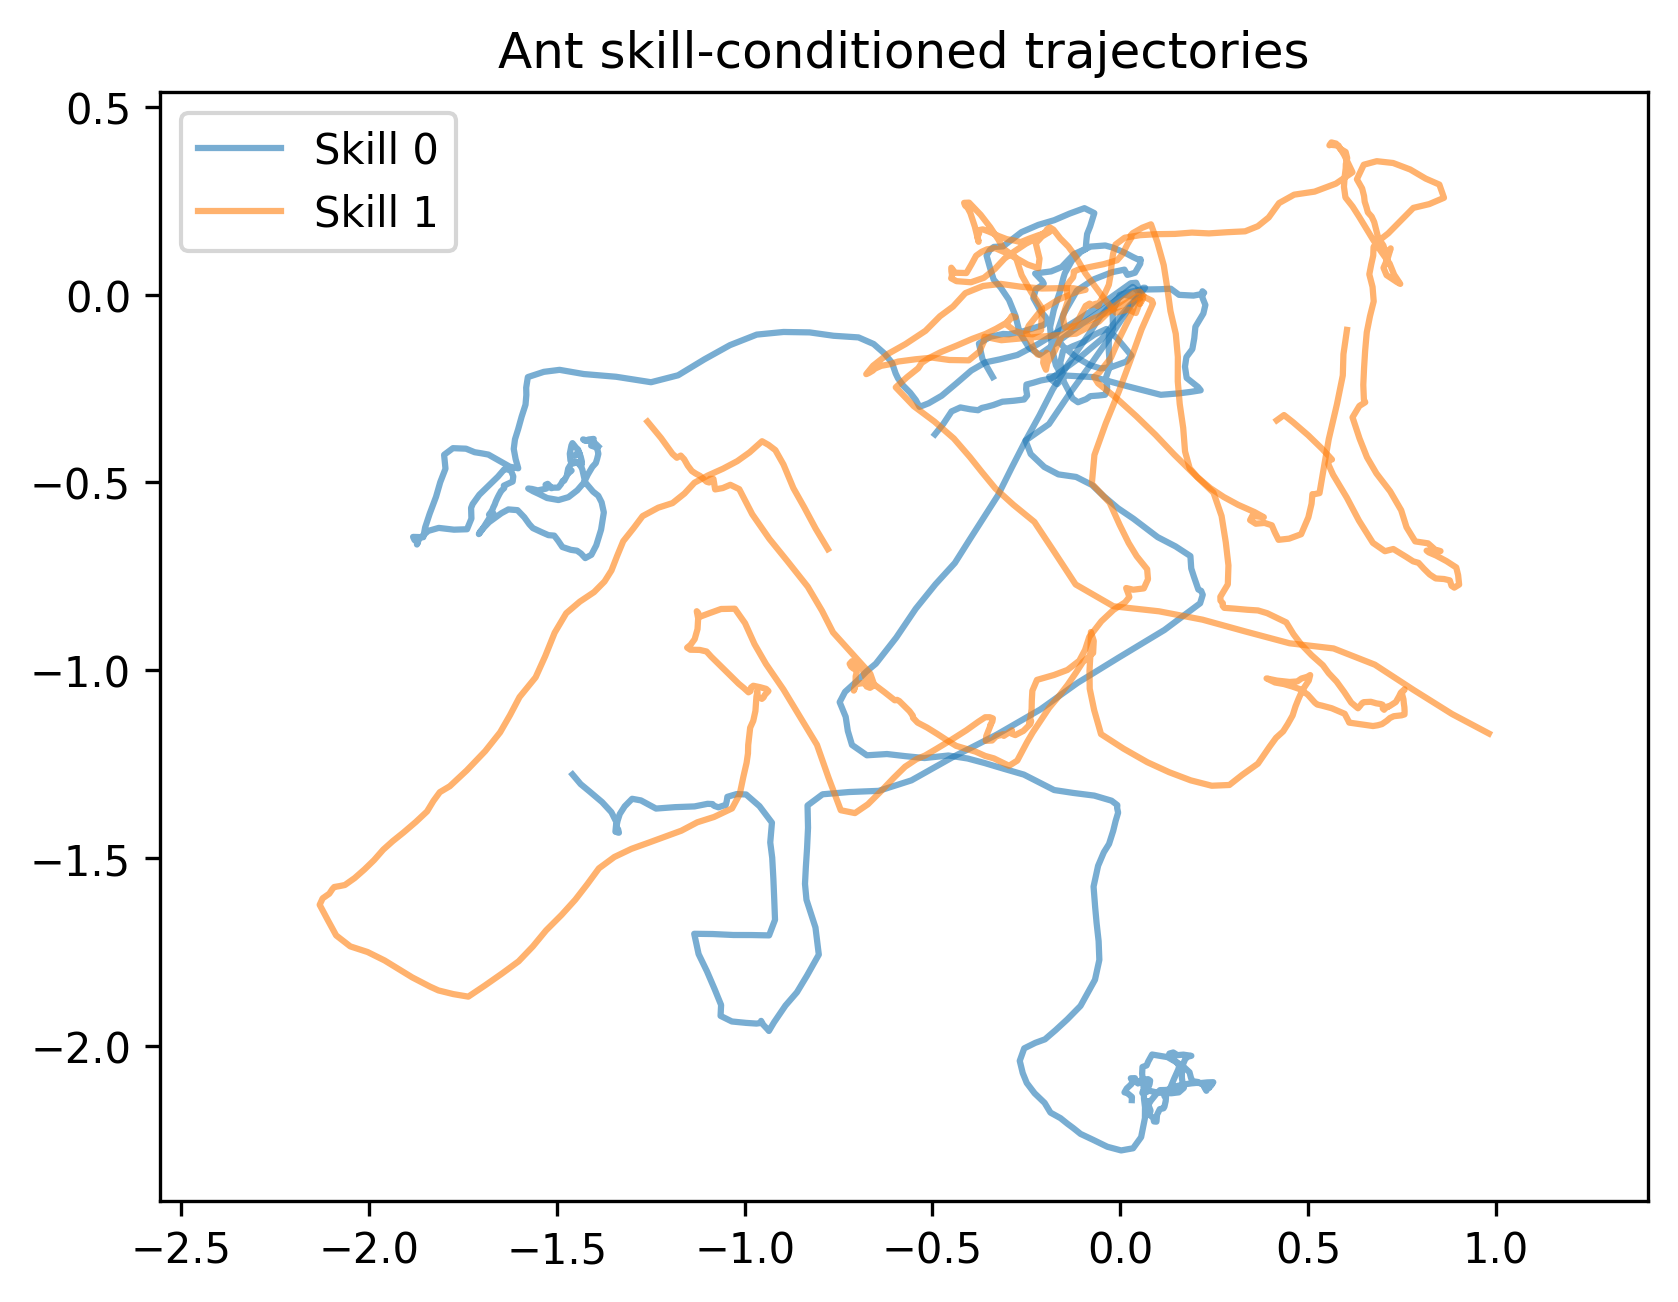
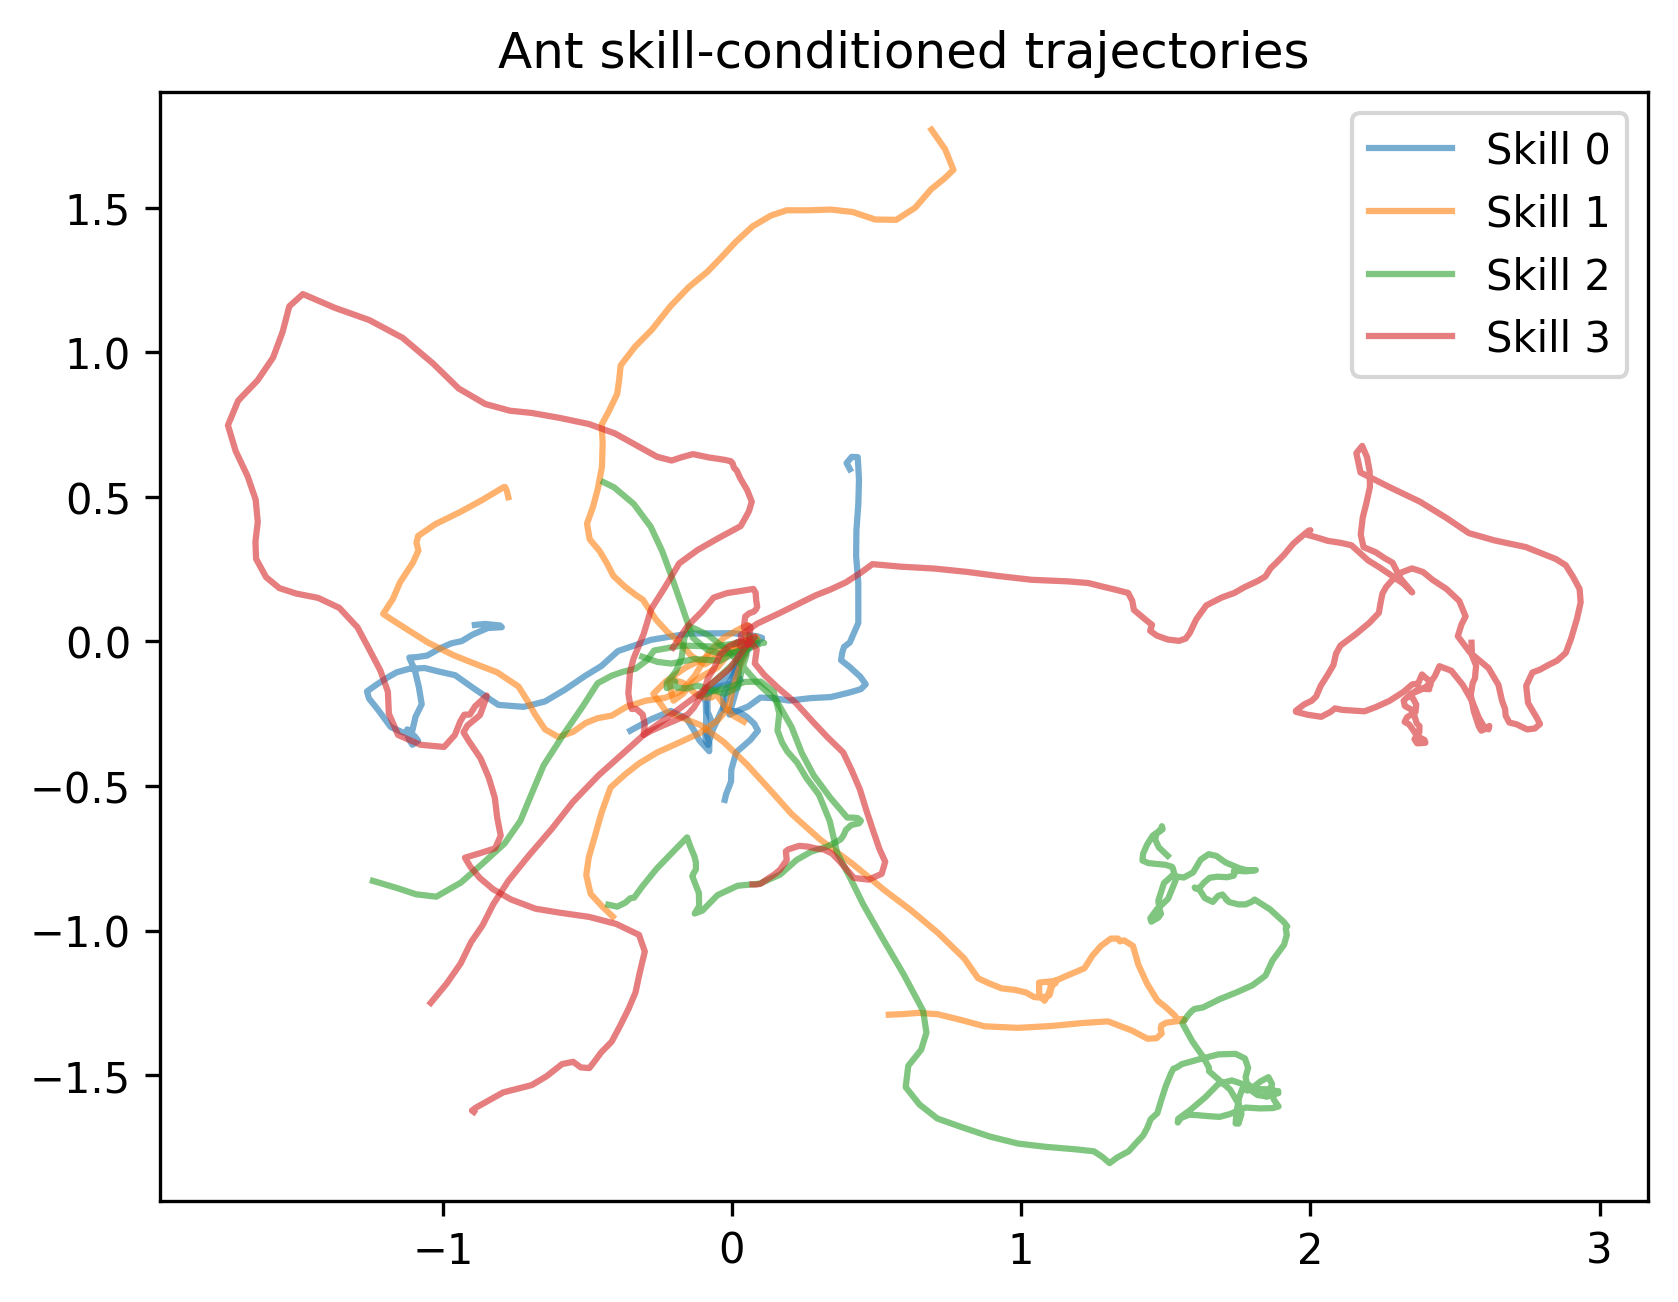
sewwp settings

diff --git a/pufferlib/pufferl.py b/pufferlib/pufferl.py
@@ -384,7 +384,10 @@ class PuffeRL:
                 
                 r_intr = torch.zeros_like(self.rewards, device=device) #B,S
                 step_rewards = (delta_phi*z).sum(dim=-1) #B,S  Normalise to S do we need this? its not in paper
-               # step_rewards = torch.clamp(step_rewards, -1, 1)
+                # normalize to zero mean, unit variance per batch
+                step_rewards = (step_rewards - step_rewards.mean()) / (step_rewards.std() + 1e-8)
+
+                step_rewards = torch.clamp(step_rewards, -1, 1)
                 r_intr[:,:-1] = step_rewards
 
                 self.rewards = r_intr.detach()
